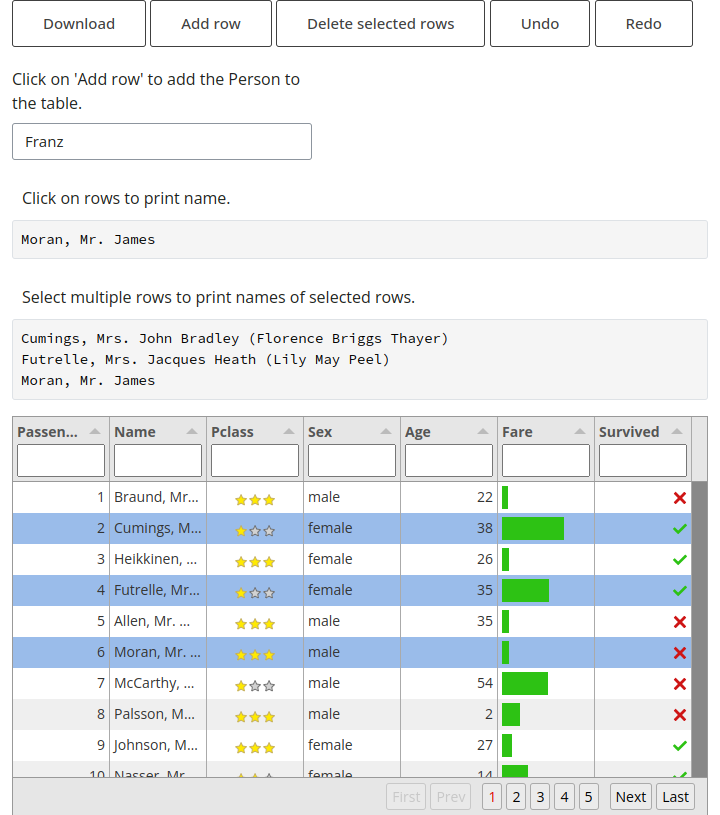
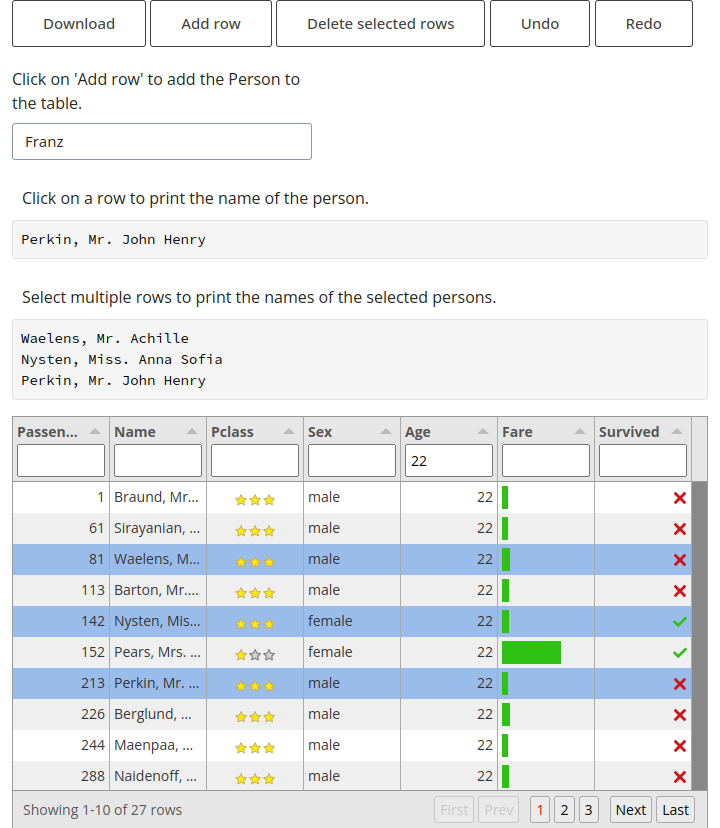
Update image

diff --git a/docs/examples/getting_started/shiny_express_all.py b/docs/examples/getting_started/shiny_express_all.py
@@ -53,7 +53,7 @@ ui.div(
     ui.input_text("name", "Click on 'Add row' to add the Person to the table."),
     style="padding-top: 20px;",
 )
-ui.div("Click on rows to print name.", style="padding: 10px;"),
+ui.div("Click on a row to print the name of the person.", style="padding: 10px;"),
 
 
 @render.code
@@ -62,7 +62,10 @@ async def txt():
     return input.tabulator_row_clicked()["Name"]
 
 
-ui.div("Select multiple rows to print names of selected rows.", style="padding: 10px;"),
+ui.div(
+    "Select multiple rows to print the names of the selected persons.",
+    style="padding: 10px;",
+),
 
 
 @render.code
